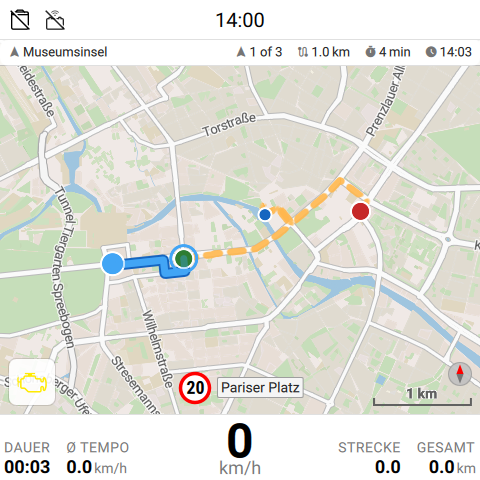
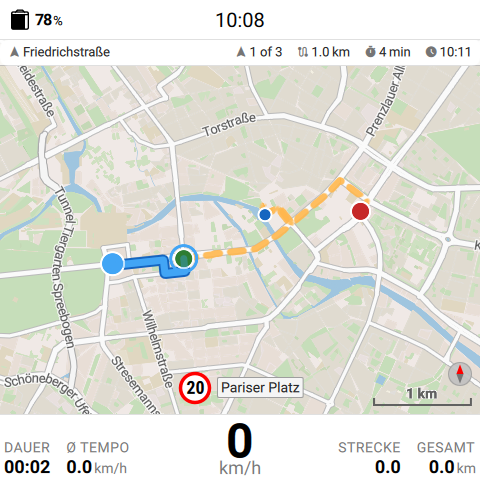
news: improve screenshot layout and examples

diff --git a/_includes/news-screenshot.html b/_includes/news-screenshot.html
@@ -2,7 +2,7 @@
 {% assign screenshot_t = site.data.i18n[screenshot_lang].news %}
 {% assign screenshot_loading = include.loading | default: "lazy" %}
 {% assign screenshot_caption = include.caption | default: include.alt %}
-<figure class="news-screenshot{% if include.featured %} news-post-image news-screenshot-featured{% endif %}">
+<figure class="news-screenshot{% if include.featured %} news-post-image news-screenshot-featured{% endif %}{% if include.align == 'right' %} news-screenshot-inline{% endif %}">
     <button class="news-screenshot-button" type="button"
             data-full-src="{{ include.src | escape }}"
             data-alt="{{ include.alt | escape }}"

diff --git a/style.css b/style.css
@@ -1529,6 +1529,18 @@ main > .section-news ~ .section:nth-child(odd) {
     text-wrap: balance;
 }
 
+@media (min-width: 760px) {
+    .news-post-body .news-screenshot-inline {
+        float: right;
+        width: min(38%, 300px);
+        margin: 0.3rem 0 1.25rem 1.75rem;
+    }
+
+    .news-post-body h2 {
+        clear: both;
+    }
+}
+
 /* Two views side by side, neither larger than a standalone screenshot. */
 .news-screenshot-grid {
     display: grid;

diff --git a/_news/de/librescoot-1-4.md b/_news/de/librescoot-1-4.md
@@ -15,6 +15,8 @@ Librescoot 1.4.0 "Spätsommer" erweitert die Navigation um Routen mit mehreren S
 
 ## Routen für die ganze Tour
 
+{% include news-screenshot.html src="/images/news/librescoot-1-4-route-de.png" align="right" alt="Navigationskarte mit drei Zwischenstopps in der Berliner Innenstadt" caption='Routenübersicht mit drei Zwischenstopps und Beispieldaten. Kartendaten © <a href="https://www.openstreetmap.org/copyright">OpenStreetMap-Mitwirkende</a>.' %}
+
 Eine Route kann mehrere Stopps enthalten. Unterwegs lassen sich weitere Ziele ergänzen, die Reihenfolge ändern oder einzelne Stopps überspringen. Die Routenübersicht zeigt die verbleibende Strecke und die kommenden Ziele. Nach Standby oder einem Neustart lässt sich die Tour fortsetzen, ohne alles erneut einzugeben.
 
 Auch die Wiederaufnahme der Navigation ist robuster: Sind GPS oder Routenberechnung beim Start noch nicht bereit, wird die Berechnung erneut versucht, sobald sie verfügbar sind. Ist die Position noch zu ungenau, erklärt eine Meldung die Wartezeit; eine bereits nutzbare Karte bleibt sichtbar.
@@ -22,8 +24,6 @@ Auch die Wiederaufnahme der Navigation ist robuster: Sind GPS oder Routenberechn
 Häufige Ziele wie Zuhause oder Arbeit, die Routenübersicht und das Überspringen eines Stopps lassen sich ins Schnellmenü aufnehmen. Die wichtigsten Navigationsaktionen sind damit unterwegs direkt erreichbar.
 
 Mehrere Offline-Kartenregionen können gleichzeitig auf dem Roller liegen. Nach einmaliger Einrichtung wählt der Tacho anhand der Position die passende Region. Installation und Aktualisierung erfolgen per USB; Routen über die Grenzen getrennter Regionen sind nicht möglich. Die Karteninformationen sind auf Deutsch und Englisch übersetzt und brechen lange Werte um.
-
-{% include news-screenshot.html src="/images/news/librescoot-1-4-route-de.png" alt="Navigationskarte mit drei Zwischenstopps in der Berliner Innenstadt" caption='Routenübersicht mit drei Zwischenstopps und Beispieldaten. Kartendaten © <a href="https://www.openstreetmap.org/copyright">OpenStreetMap-Mitwirkende</a>.' %}
 
 ## Die Uhr läuft weiter
 
@@ -53,8 +53,6 @@ Auf Wunsch öffnet sich die Sitzbank beim Entsperren automatisch, auch mit einer
 
 Das Fahrtenbuch speichert Strecke, Dauer und GPS-Verlauf auf dem Roller. Unter Fahrtenverlauf lassen sich abgeschlossene Fahrten mit Strecke, Fahrzeit und Durchschnittsgeschwindigkeit direkt am Tacho ansehen. Aufgezeichnete GPS-Spuren können auf der Karte angezeigt werden. Die Aufbewahrung lässt sich nach Alter, Fahrtenzahl oder Speichergröße begrenzen; die automatische Löschung kann auch ausgeschaltet werden. Kurze Strecken unter 100 Metern laut Kilometerzähler werden nicht als abgeschlossene Fahrt gespeichert.
 
-{% include news-screenshot.html src="/images/news/librescoot-1-4-trip-de.png" alt="Fahrtdetails mit Beispielwerten und GPS-Spur auf der Karte" caption='Fahrtdetails mit Beispieldaten und GPS-Spur. Start- und Endmarkierung sind ab Dashboard 1.24.1 verfügbar. Kartendaten © <a href="https://www.openstreetmap.org/copyright">OpenStreetMap-Mitwirkende</a>.' %}
-
 Auch der Tageskilometerzähler bleibt beim Ausschalten erhalten und zählt unabhängig vom Fahrtenbuch. Das Zurücksetzen ist konfigurierbar: nach jeder Fahrt, täglich, beim Akkuwechsel oder nur von Hand.
 
 Die neue Verbrauchsseite am Tacho schätzt die aus den Fahrakkus entnommene Nettoenergie aus Änderungen ihrer Restkapazität. Sie ordnet die Werte nach Fahrbereitschaft, Parkmodus und Standby. So wird auch der Energiebedarf außerhalb einer Fahrt sichtbar. Die Aufteilung ist eine Schätzung nach Betriebsphasen, keine genaue Bilanz einzelner Verbraucher; Erfassungsbeginn und Unterbrechungen bleiben erkennbar.
@@ -62,6 +60,8 @@ Die neue Verbrauchsseite am Tacho schätzt die aus den Fahrakkus entnommene Nett
 Getrennt davon zeigen Tacho und Web-Oberfläche die aus Motorcontroller-Daten geschätzte verbrauchte und durch Rekuperation zurückgewonnene Energie in kWh.
 
 ## Nachrichten und mehr Möglichkeiten für Apps
+
+{% include news-screenshot.html src="/images/news/librescoot-1-4-sms-de.png" align="right" alt="SMS-Nachricht mit einem beispielhaften Tarifhinweis" caption="SMS direkt am Tacho lesen. Absender und Nachricht sind Beispiele." %}
 
 Tarifhinweise oder Datenvolumenwarnungen des Mobilfunkanbieters landen oft per SMS auf der Roller-SIM. Diese Nachrichten lassen sich jetzt im Parkmodus am Tacho oder mit kompatiblen Apps lesen und löschen. Unter Info > SMS zeigt die Liste Absender und Textvorschau; Nachrichten lassen sich direkt öffnen und als Klartext lesen. Beim Löschen ist zunächst Abbrechen ausgewählt. Das Postfach bleibt über Neustarts erhalten. Neue Nachrichten können optional im Heimatnetz weitergeleitet werden; die Nummer wird in den erweiterten Einstellungen der Web-Oberfläche eingetragen. Am Tacho lassen sich das Ziel ansehen und die Weiterleitung ausschalten. Die Funktion ist standardmäßig aus und kann Tarifkosten verursachen. Bei Multi-SIM hängt es vom Tarif ab, ob SMS am Roller oder an einem anderen Gerät ankommen.
 

diff --git a/_news/en/librescoot-1-4.md b/_news/en/librescoot-1-4.md
@@ -15,6 +15,8 @@ Librescoot 1.4.0 "Spätsommer" expands navigation with multi-stop routes, an ove
 
 ## Routes for the whole tour
 
+{% include news-screenshot.html src="/images/news/librescoot-1-4-route-en.png" align="right" alt="Navigation map with three stops in central Berlin" caption='Route overview with three stops and example data. Map data © <a href="https://www.openstreetmap.org/copyright">OpenStreetMap contributors</a>.' %}
+
 A route can include several stops. Add destinations along the way, change their order or skip individual stops. The route overview shows the remaining route and upcoming destinations. After standby or a restart, the tour can be resumed without entering everything again.
 
 Resuming navigation is more robust too. If GPS or routing is not ready at startup, route calculation is retried once they are available. When the position is not yet accurate enough, a message explains the wait and a usable map stays visible.
@@ -22,8 +24,6 @@ Resuming navigation is more robust too. If GPS or routing is not ready at startu
 Frequent destinations such as home or work, the route overview and the option to skip a stop can all be added to the shortcut menu, keeping the main navigation actions within easy reach.
 
 Several offline map regions can be stored on the scooter at once. After a one-time setup, the dashboard selects the appropriate region for the current position. Installation and updates use USB; routes cannot cross between separate regions. Map information labels are translated into German and English, and long values wrap.
-
-{% include news-screenshot.html src="/images/news/librescoot-1-4-route-en.png" alt="Navigation map with three stops in central Berlin" caption='Route overview with three stops and example data. Map data © <a href="https://www.openstreetmap.org/copyright">OpenStreetMap contributors</a>.' %}
 
 ## The clock keeps running
 
@@ -53,8 +53,6 @@ An optional setting can open the seatbox automatically when the scooter is unloc
 
 The trip log saves distance, duration and GPS tracks on the scooter. Under Trip history, you can view completed rides with distance, riding time and average speed directly on the dashboard. Recorded GPS tracks can be shown on the map. Retention can be limited by age, number of trips or storage size, or automatic deletion can be turned off. Short distances below 100 metres on the odometer are not saved as completed trips.
 
-{% include news-screenshot.html src="/images/news/librescoot-1-4-trip-en.png" alt="Trip details with example values and a GPS track on the map" caption='Trip details with example data and a GPS track. Start and end markers are available from dashboard 1.24.1. Map data © <a href="https://www.openstreetmap.org/copyright">OpenStreetMap contributors</a>.' %}
-
 The trip counter also keeps its distance when the scooter is switched off and counts independently of trip history. Choose whether it resets after each ride, daily, on a battery swap or only manually.
 
 The new dashboard consumption page estimates net energy drawn from the traction batteries from changes in their remaining capacity. Values are grouped by ready-to-drive, parked and standby, making energy use outside a ride visible too. This is an estimate by operating phase, not an exact breakdown by electrical load; the recording start and gaps remain visible.
@@ -62,6 +60,8 @@ The new dashboard consumption page estimates net energy drawn from the traction 
 Separately, the dashboard and web interface show energy consumed and recovered through regenerative braking in kWh, estimated from motor-controller data.
 
 ## Messages and more options for apps
+
+{% include news-screenshot.html src="/images/news/librescoot-1-4-sms-en.png" align="right" alt="SMS message with an example mobile plan notice" caption="Read SMS directly on the dashboard. Sender and message are examples." %}
 
 Mobile carriers often send plan notices and data allowance warnings by SMS to the scooter's SIM card. These messages can now be read and deleted on the dashboard while parked or through compatible apps. Under Info > SMS, the list shows the sender and a message preview; messages open directly as plain text. Cancel is selected first when deleting. The inbox survives restarts. New messages can optionally be forwarded on the home network; set the number in the web interface's advanced settings. The dashboard shows the destination and can turn forwarding off. Forwarding is off by default and carrier charges may apply. With multi-SIM, the mobile plan determines whether SMS reach the scooter or another device.
 
